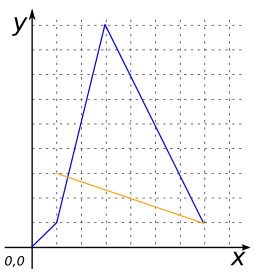
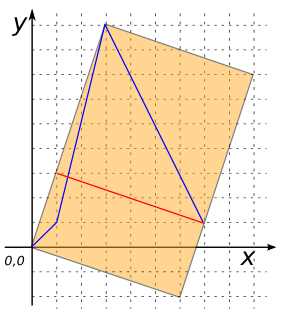
Update description and images for ST_MinimumDiameter

diff --git a/docs/dev/ST_MinimumDiameter.md b/docs/dev/ST_MinimumDiameter.md
@@ -15,7 +15,9 @@ LINESTRING ST_MinimumDiameter(GEOMETRY geom);
 {% endhighlight %}
 
 ### Description
-Returns the minimum diameter for a given Geometry.
+Returns the minimum diameter for a input Geometry. 
+The minimum diameter is computed in relation to the minimum rectangle which encloses a input
+Geometry.
 
 ### Examples
 
